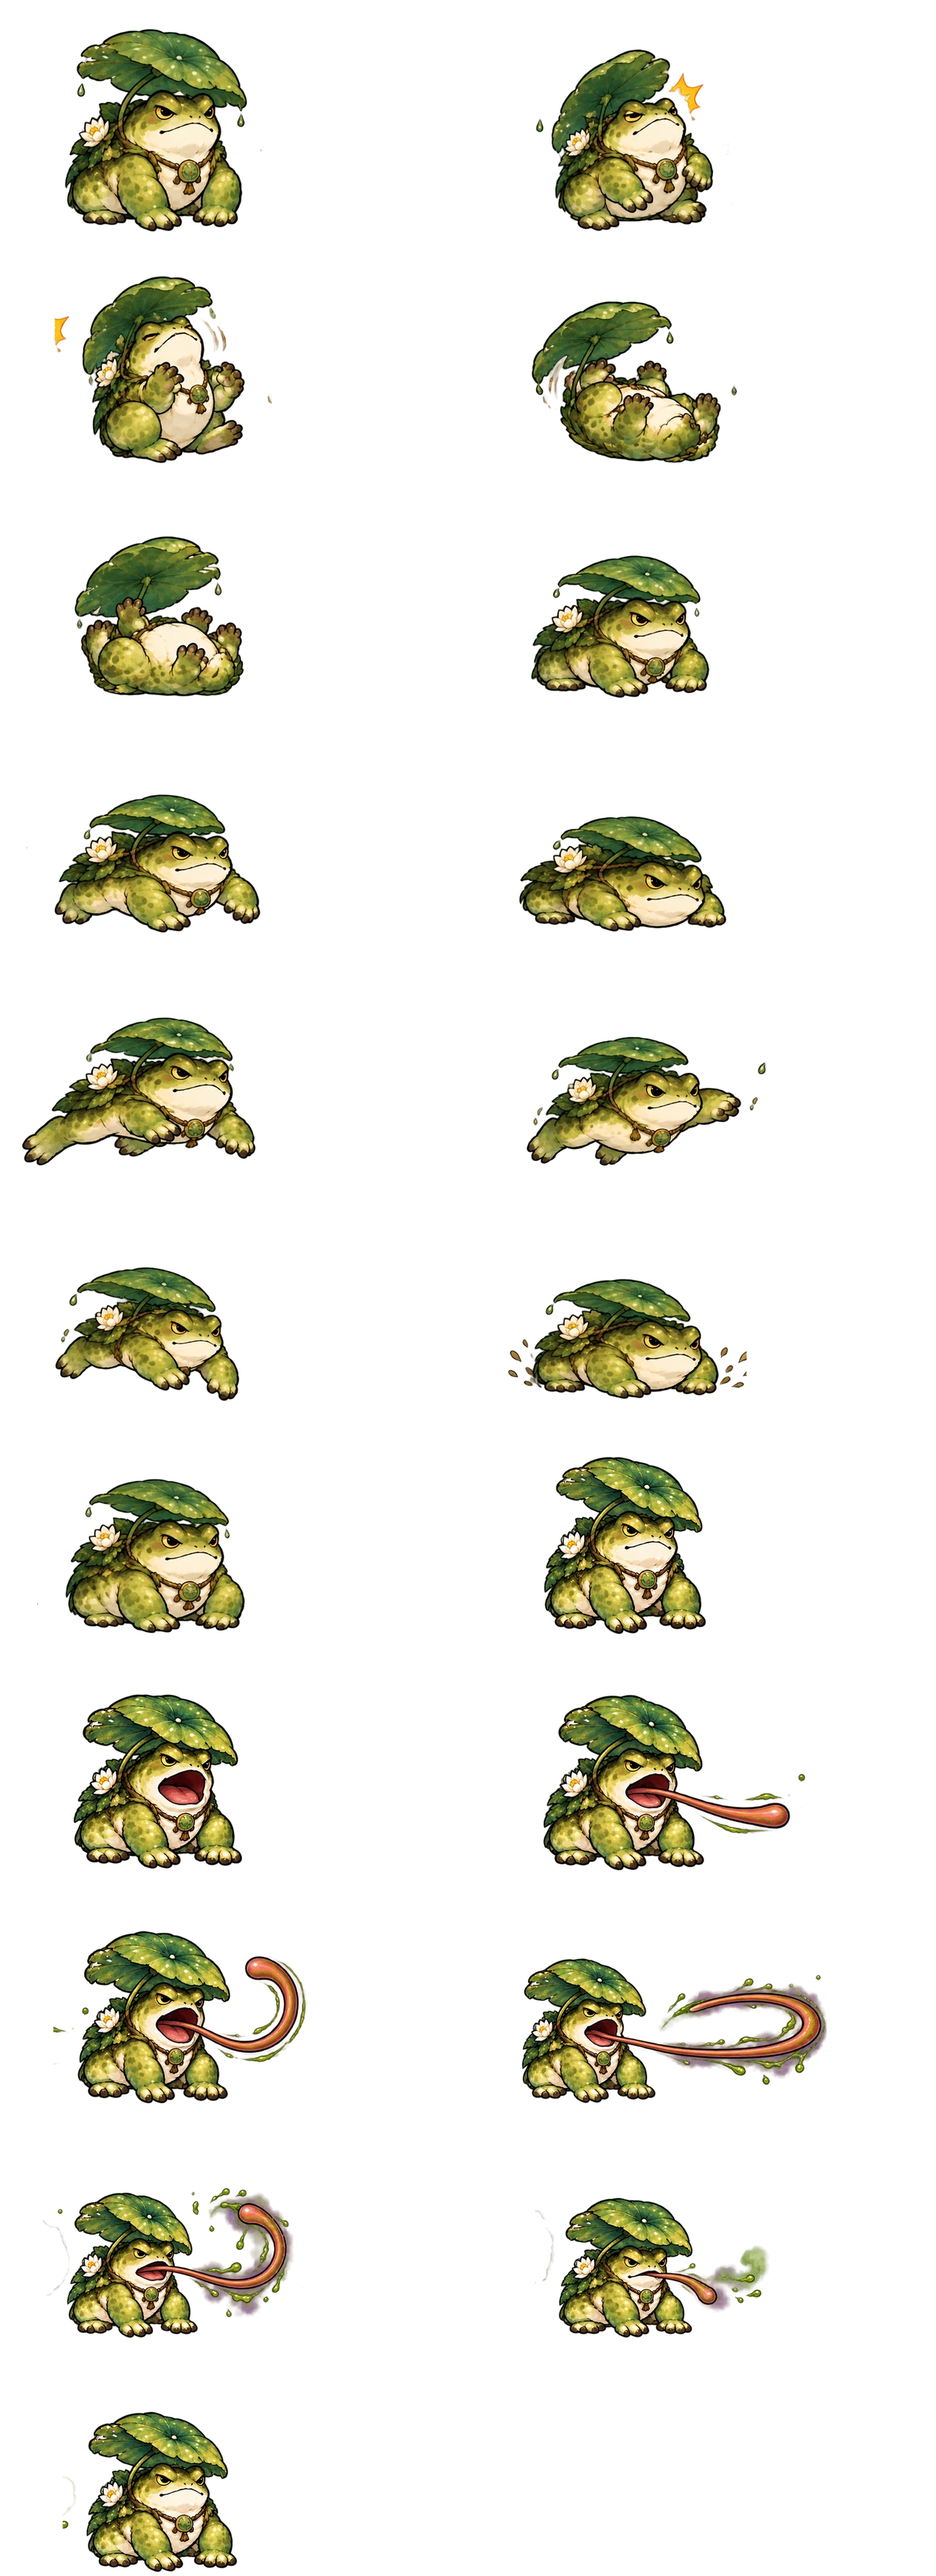
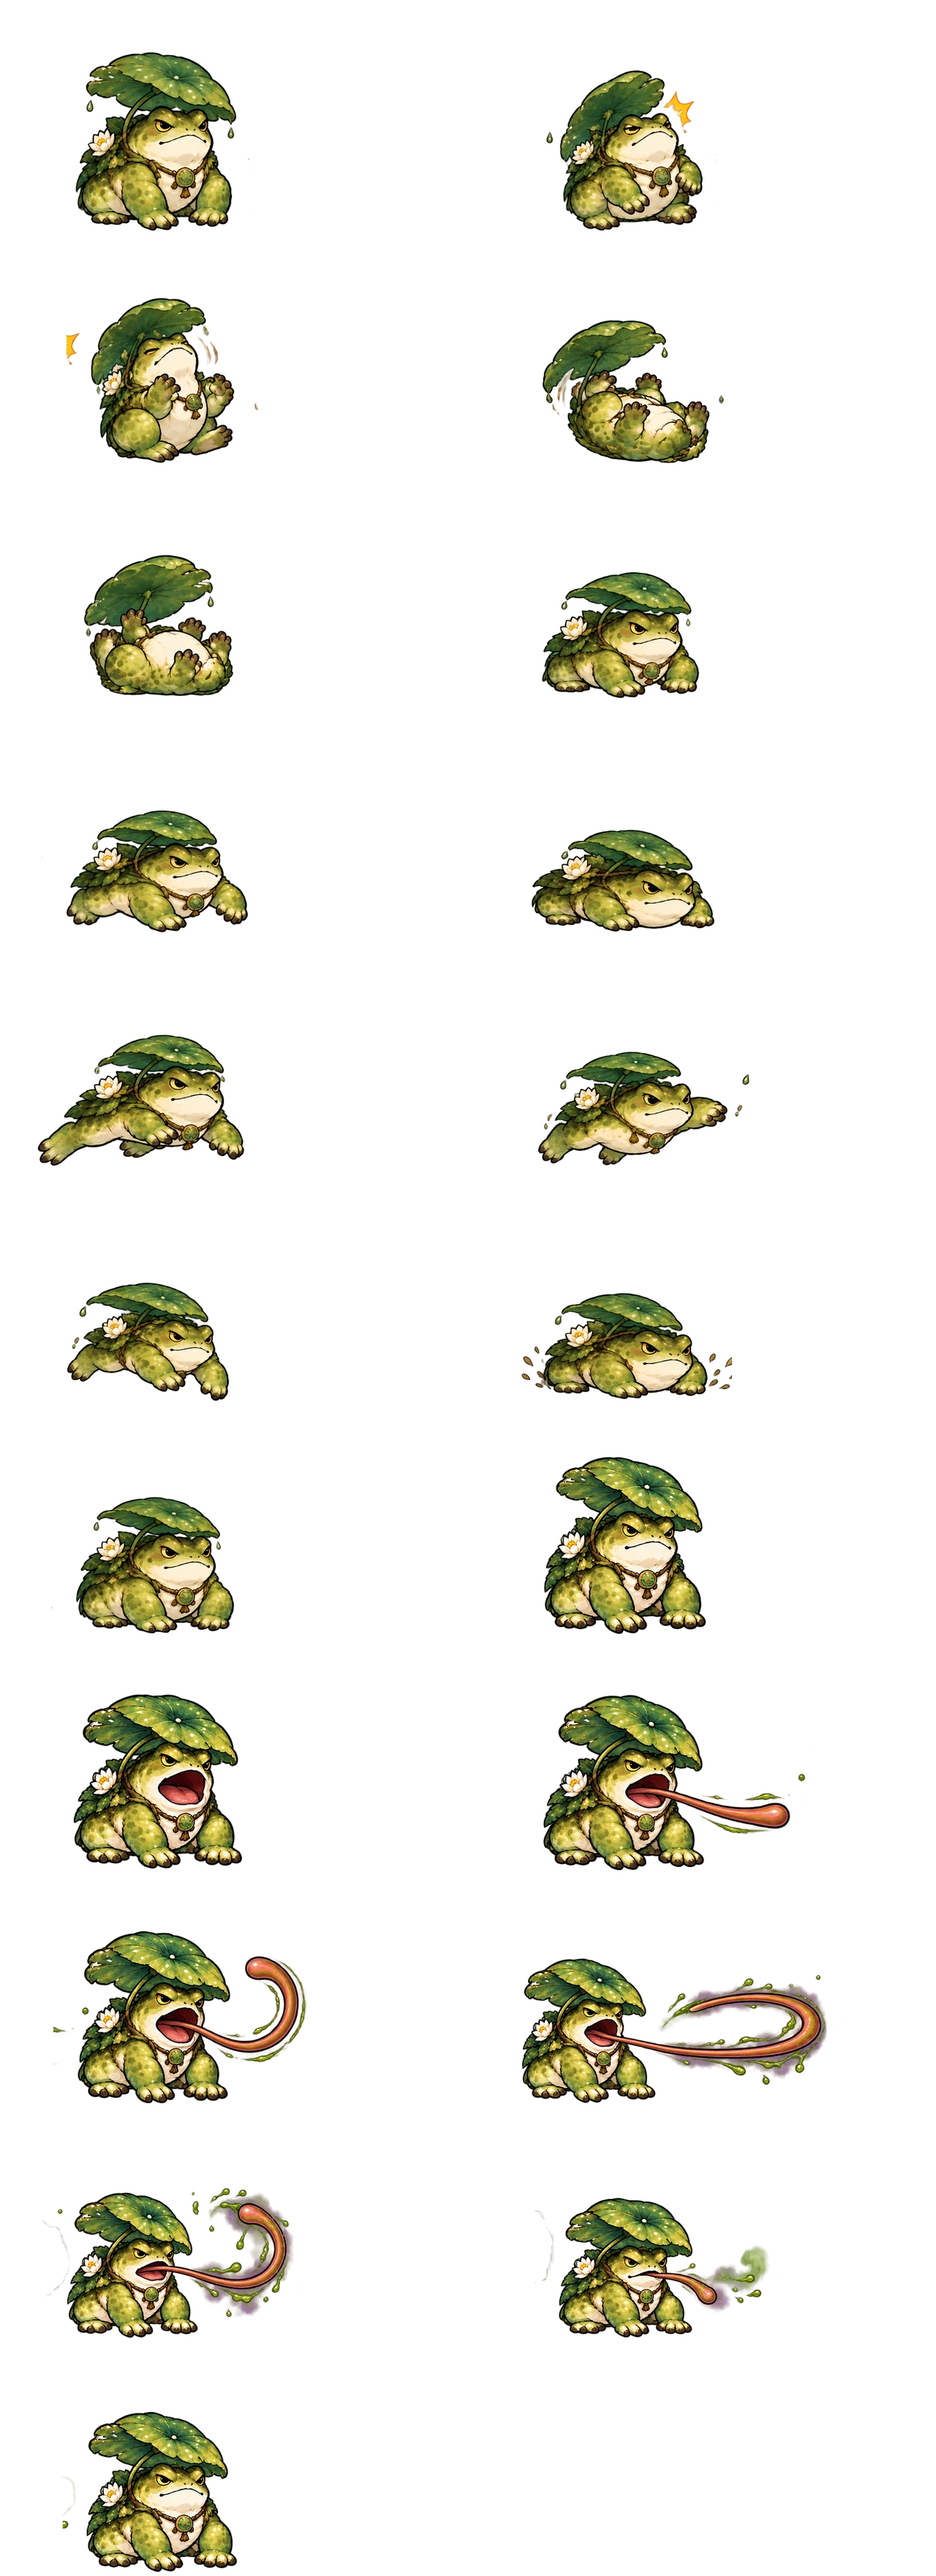
Match Elite Frog walk/hit/death size to the attack poses
The two supplied sheets draw the frog at different sizes: the idle pose
from the body sheet was ~12% larger than the same pose from the tongue
sheet, so the frog visibly shrank when it attacked. Scale every body-sheet
pose by the measured idle-to-idle ratio (0.883) about the renderer's feet
pivot. Registration quality is still reported against the legacy frames.

Claude-Session: https://claude.ai/code/session_013SPXWmSGGWYuMLeTRy3X2r

diff --git a/art/elite-frog/build-hires-atlas.py b/art/elite-frog/build-hires-atlas.py
@@ -26,6 +26,7 @@ species = root / 'species'
 OLD_BODY = art / 'legacy-body-atlas-320x880.webp'   # registration reference (the approved layout)
 OLD_ATTACK = art / 'legacy-attack-atlas-512x384.webp'
 CELL_W, CELL_H = 160, 80
+PIVOT = (160 / 3, 80 * (1 - .026))  # feet pivot of the body renderer (elite-frog.js vertex shader)
 
 # Approximate centre of each pose in its source sheet (x, y). Only used to pick the right sprite
 # when several poses look alike; the exact transform comes from the image match.
@@ -133,8 +134,6 @@ def main():
     report = []
     for r in regs:
         f = r['frame']
-        hi = render(r, sheets, SCALE)
-        atlas.paste(hi, (f % 2 * CELL_W * SCALE, f // 2 * CELL_H * SCALE))
         lo = render(r, sheets, 1)
         check.paste(lo, (f % 2 * CELL_W, f // 2 * CELL_H))
         a = np.asarray(old_body.crop((f % 2 * CELL_W, f // 2 * CELL_H, f % 2 * CELL_W + CELL_W, f // 2 * CELL_H + CELL_H))).astype(float)
@@ -142,10 +141,27 @@ def main():
         report.append({'frame': f, 'sheet': r['sheet'], 'sourceBox': r['box'], 'scale': round(r['scale'], 5), 'origin': [round(r['originX'], 3), round(r['originY'], 3)],
                        'alphaMAE': round(float(np.abs(a[:, :, 3] - b[:, :, 3]).mean()), 2),
                        'rgbMAEonBody': round(float(np.abs(a[:, :, :3] - b[:, :, :3])[(a[:, :, 3] > 200) & (b[:, :, 3] > 200)].mean()), 2)})
+    # The two supplied sheets draw the frog at different sizes: idle from the body sheet (frame 0)
+    # is ~12% larger than the identical idle pose from the tongue sheet (frame 13). Scale every
+    # body-sheet pose about the renderer's feet pivot so walking, hit and death match the attack size.
+    def size(reg):
+        x0, y0, x1, y1 = main_bbox(np.asarray(render(reg, sheets, SCALE))[:, :, 3])
+        return x1 - x0, y1 - y0
+    (w0, h0), (w13, h13) = size(regs[0]), size(regs[13])
+    match = ((w13 / w0) + (h13 / h0)) / 2
+    for r in regs:
+        if r['sheet'] == BODY_SHEET:
+            r['scale'] *= match
+            r['originX'] = PIVOT[0] + (r['originX'] - PIVOT[0]) * match
+            r['originY'] = PIVOT[1] + (r['originY'] - PIVOT[1]) * match
+    print(f'body-sheet poses scaled by {match:.4f} to match the attack sheet', flush=True)
+    for r in regs:
+        f = r['frame']
+        atlas.paste(render(r, sheets, SCALE), (f % 2 * CELL_W * SCALE, f // 2 * CELL_H * SCALE))
     out = species / 'enemies/elite-frog-atlas.webp'
     atlas.save(out, 'WEBP', quality=92, method=6, exact=True)
     build_attack(atlas, regs)
-    meta = {'scale': SCALE, 'cell': [CELL_W * SCALE, CELL_H * SCALE], 'size': list(atlas.size),
+    meta = {'scale': SCALE, 'bodySheetMatchToAttack': round(match, 5), 'cell': [CELL_W * SCALE, CELL_H * SCALE], 'size': list(atlas.size),
             'sources': {n: hashlib.sha256((art / n).read_bytes()).hexdigest() for n in (BODY_SHEET, TONGUE_SHEET, 'supplied-portrait.png')},
             'legacyBodyAtlasSHA256': hashlib.sha256(OLD_BODY.read_bytes()).hexdigest(),
             'atlasSHA256': hashlib.sha256(out.read_bytes()).hexdigest(), 'frames': report}

diff --git a/AGENTS.md b/AGENTS.md
@@ -27,7 +27,7 @@ Source of truth: `pacing/encounter-director.js`; details in `docs/COZY-PACING.md
 - **Moss Frog:** always uses its approved sprite.
 - **Elite Frog** (`species/elite-frog*.js`):
   - Separate atlas, cell world size 1.95.
-  - Textures are 4x density (body 1280x3520, attack 2048x1536), rebuilt by `art/elite-frog/build-hires-atlas.py` from the owner's originals in `art/elite-frog/supplied-*.png`. Each frame is registered to the old 1x frame (silhouette error < 4/255), so size, pivot and pose are unchanged. The `legacy-*` 1x atlases are only the registration reference. Attack metadata stays in 1x logical units, with `textureScale: 4`.
+  - Textures are 4x density (body 1280x3520, attack 2048x1536), rebuilt by `art/elite-frog/build-hires-atlas.py` from the owner's originals in `art/elite-frog/supplied-*.png`. Each frame is registered to the old 1x frame (silhouette error < 4/255), so size, pivot and pose are unchanged. Walk, hit and death poses (from the body sheet) are then scaled by 0.883 about the feet pivot, so they match the attack-sheet body size (owner request: the frog must not shrink when it attacks). The `legacy-*` 1x atlases are only the registration reference. Attack metadata stays in 1x logical units, with `textureScale: 4`.
   - The attack renders ONE whole frog+tongue image per frame from `species/enemies/elite-frog-attack.webp`. Never use detached tongue layers, procedural tongues or a body drawn underneath.
   - Motion: eight active poses, with `ATTACK_ART` metadata authoritative for timing. .55 s windup (aim locks, hits cannot cancel it), .22 s recovery.
   - Combat: 4.5-unit engagement. Damage comes only from contact with rendered tongue pixels, once per attack, plus a 3 s poison.
